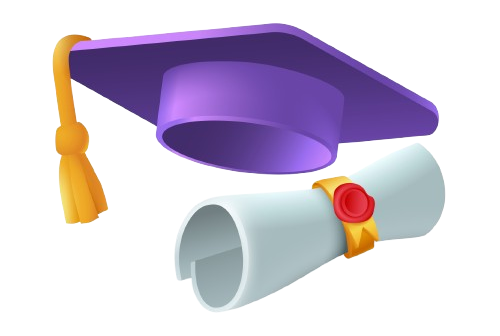
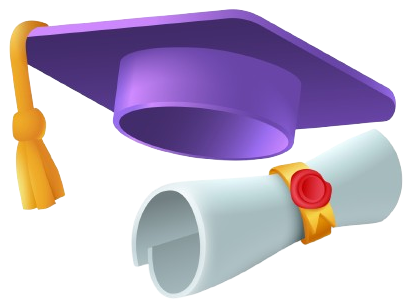
Fixed design issues

Changed region(s): [[0.0, 0.0293, 0.9831, 0.9674], [0.4627, 0.557, 0.4916, 0.5863]]

diff --git a/src/components/pages/Test/TestPage.jsx b/src/components/pages/Test/TestPage.jsx
@@ -100,7 +100,7 @@ const TestPage = () => {
           <div className="mx-auto">
             <img
               src="/assets/careerHat.png"
-              className=" max-w-72 md:max-w-96"
+              className=" max-w-64 md:max-w-80"
             />
           </div>
           <div className="my-auto">
